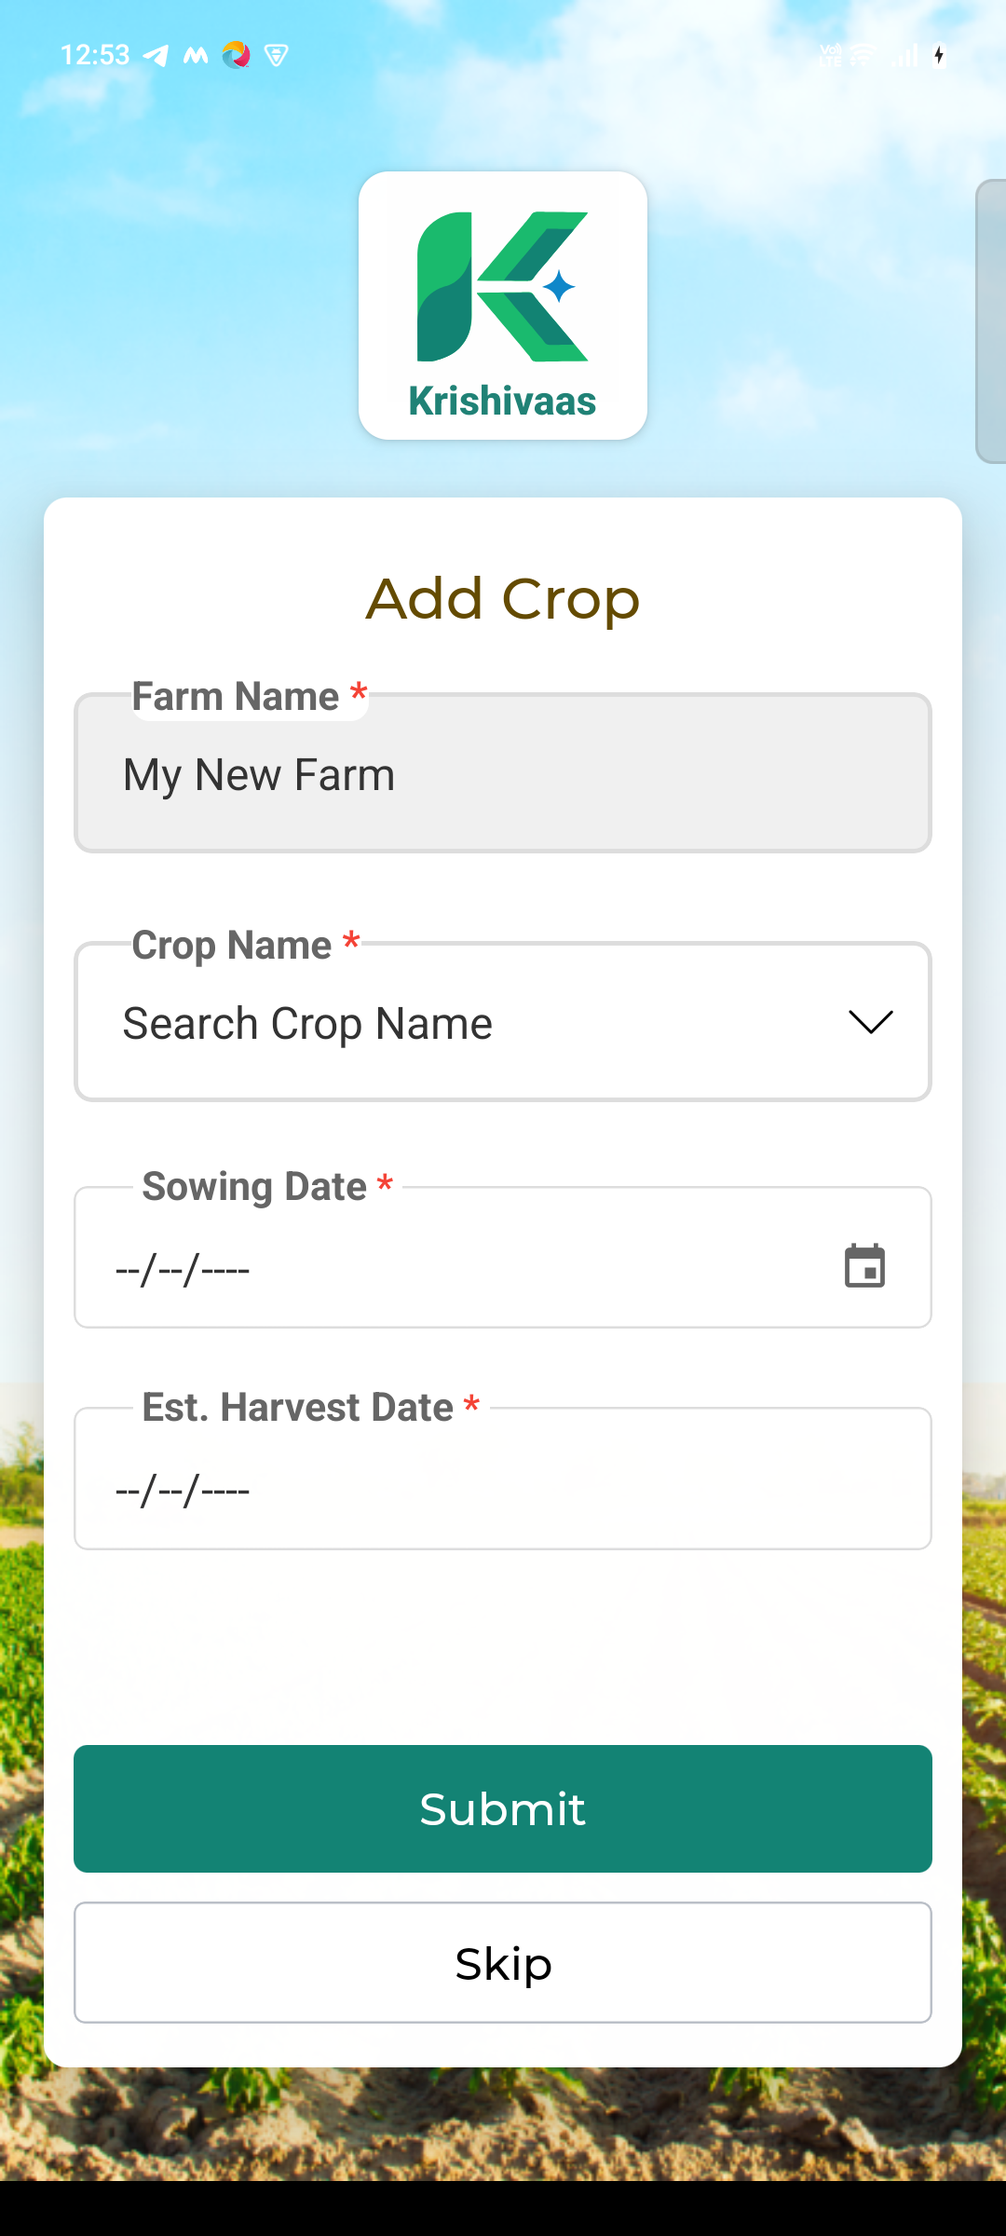
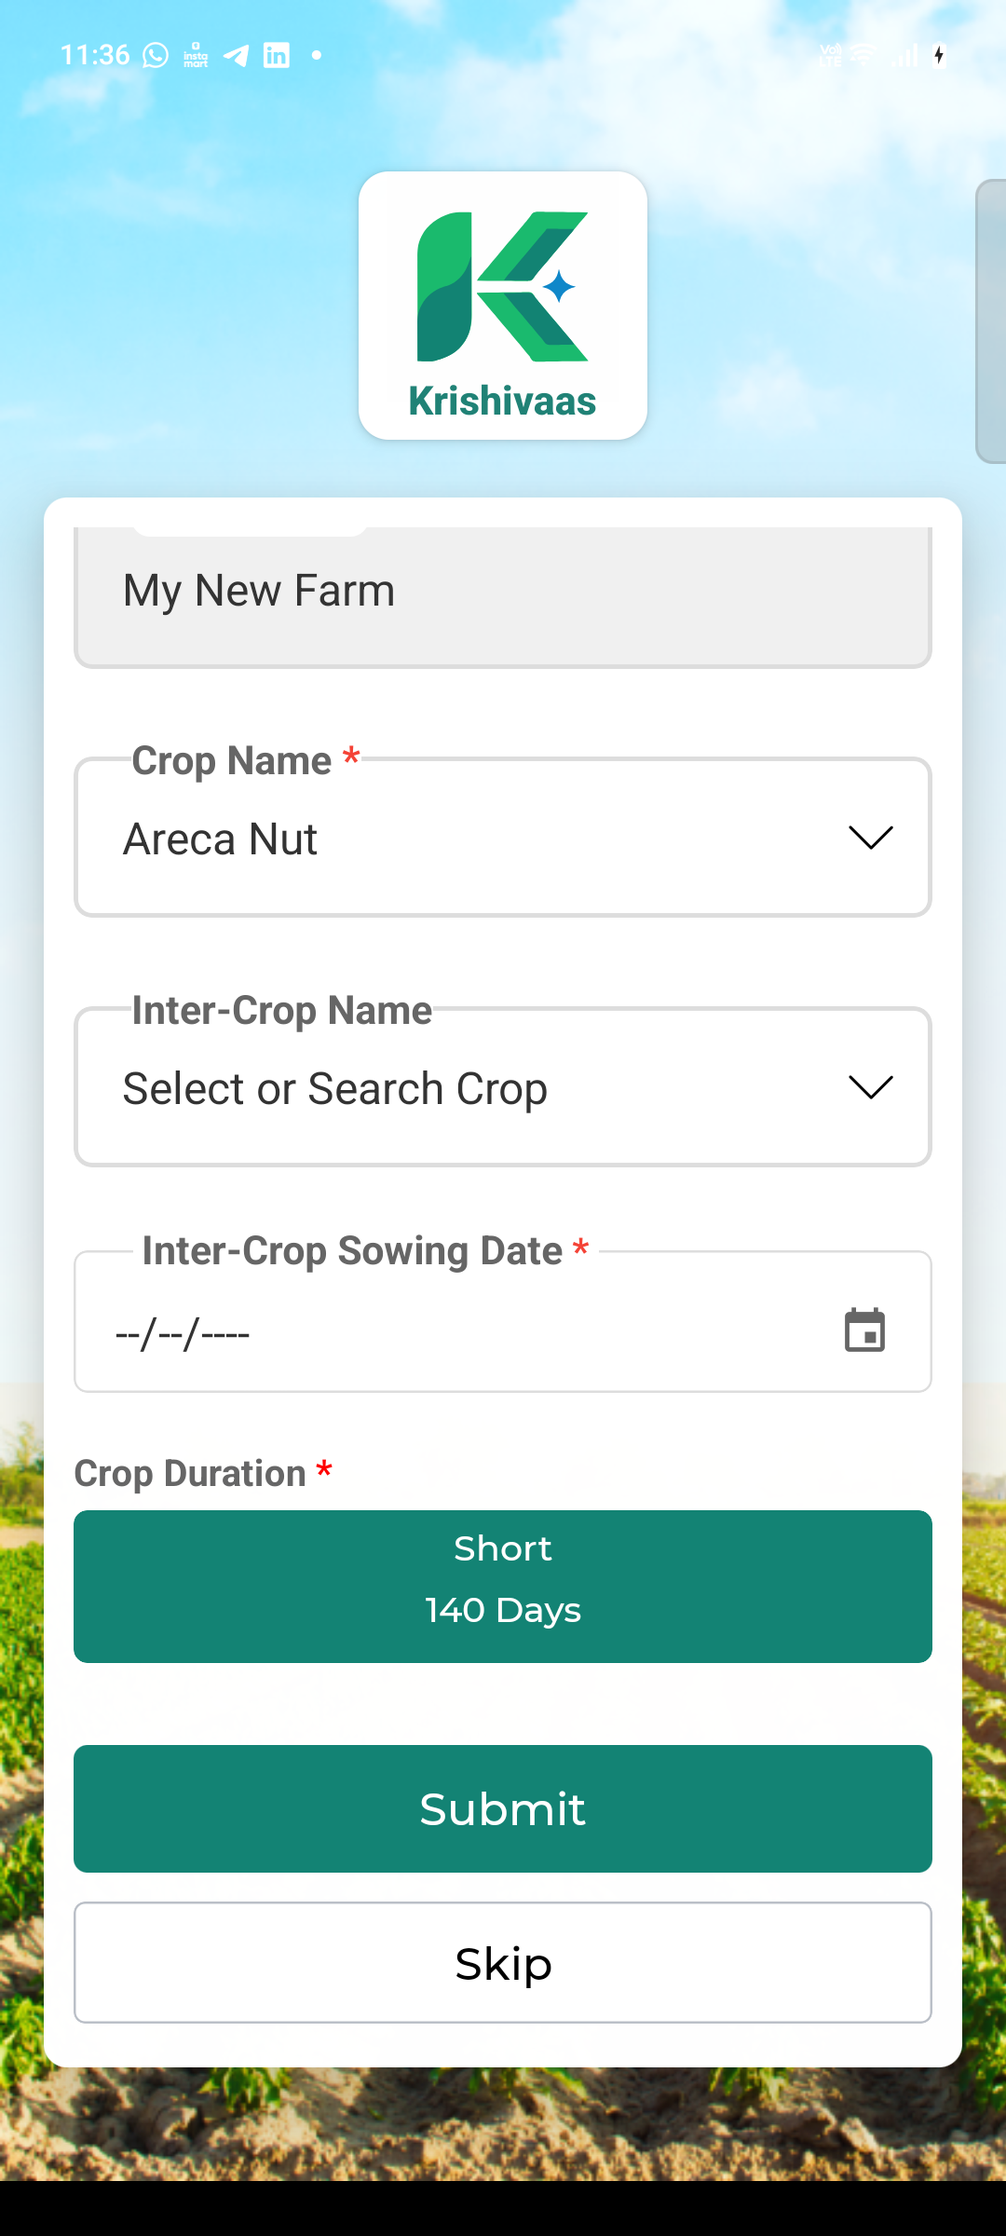
crop12

diff --git a/tests/test_cases/regular_client_test_cases/onboarding_pytest.py b/tests/test_cases/regular_client_test_cases/onboarding_pytest.py
@@ -3,16 +3,11 @@ import allure
 import pytest
 import json
 import os
-from selenium.webdriver.common.actions.action_builder import ActionBuilder
-from selenium.webdriver.common.actions.pointer_input import PointerInput
-from selenium.webdriver.common.actions import interaction
+from selenium.webdriver.common.by import By
 from selenium.webdriver.support.ui import WebDriverWait
 from selenium.webdriver.support import expected_conditions as EC
-from selenium.webdriver.common.by import By
 
 # --- IMPORT CUSTOM UTILITIES ---
-from tests.utils.touch_utils import tap_at_coordinates, perform_scroll
-from tests.utils.wait_utils import scroll_to_find
 from tests.utils.wait_utils import smart_click, smart_send_keys
 
 @allure.epic("Onboarding Flow")
@@ -22,24 +17,18 @@ class TestOnboarding:
     def _dismiss_coachmarks(self, driver):
         try:
             print("   -> Attempting to dismiss coachmarks...")
-            actions = ActionBuilder(driver)
-            p = PointerInput(interaction.POINTER_TOUCH, "finger")
-            actions.devices = [p]
-            actions.pointer_action.move_to_location(500, 1000)
-            actions.pointer_action.pointer_down()
-            actions.pointer_action.pause(0.1)
-            actions.pointer_action.pointer_up()
-            actions.perform()
+            # Replaced unstable ActionBuilder with native clickGesture
+            driver.execute_script("mobile: clickGesture", {"x": 500, "y": 1000})
             time.sleep(1)
-        except:
-            pass
+        except Exception as e:
+            print(f"Coachmark dismissal skipped: {e}")
 
     def perform_login(self, driver, locators):
         """
         Checks if user is on Dashboard. If not, performs login.
         """
         print("\n--- CHECKING LOGIN STATUS ---\n")
-       
+        
         # 1. Check if we are already on dashboard (look for Add button)
         try:
             WebDriverWait(driver, 5).until(
@@ -68,16 +57,16 @@ class TestOnboarding:
             for btn in perm_btns:
                 if btn:
                     smart_click(driver, "Permission Allow", btn, "Allow", timeout=3)
-       
+        
         print("   -> Login flow finished. Waiting for Dashboard...")
         time.sleep(5)
 
     @allure.story("Create Farmer, Farm, Crop, and Boundary")
     @allure.title("Verify user can add a new farmer and complete farm onboarding")
     def test_add_farmer_and_details(self, driver):
-       
+        
         print("\n--- STARTING ONBOARDING TEST ---\n")
-       
+        
         test_flow_steps = []
 
         # --- Load JSON ---
@@ -96,13 +85,13 @@ class TestOnboarding:
         login_x = data.get("login_screen", {})
         dash_x = data.get("dashboard_screen", {})
         farm_x = data.get("farmer_screen", {})
-       
-        # --- DEFINING LOCATORS ---
+        
+        # --- DEFINING LOCATORS (Properly mapped to element.json) ---
         locators = {
             # Login
             "next_button_language_login": login_x.get("next_button_language_login"),
             "allow_notifications_button": login_x.get("allow_notifications_button"),
-            "email_tab": login_x.get("email_tab", "//*[contains(@text, 'Email')]"),
+            "email_tab": login_x.get("tab_email_login"),
             "submit_login_button": login_x.get("submit_login_button"),
             "allow_picture_button": login_x.get("allow_picture_button"),
             "allow_location_button": login_x.get("allow_location_button"),
@@ -111,26 +100,29 @@ class TestOnboarding:
             # Dashboard
             "add_btn": dash_x.get("add_button_dashboard"),
             "add_farmer_opt": dash_x.get("add_new_farmer_option"),
-           
+            
             # Farmer
             "farmer_name": farm_x.get("farmer_name_input"),
             "farmer_mobile": farm_x.get("farmer_mobile_input"),
             "submit_farmer": farm_x.get("submit_farmer_button"),
-           
+            
             # Farm
             "draw_map_btn": farm_x.get("draw_on_map_button"),
             "farm_name": farm_x.get("farm_name_input"),
             "submit_farm": farm_x.get("submit_button"),
-           
+            
             # Crop
             "crop_input": farm_x.get("crop_name_input"),
-            "areca_item": "//*[contains(@text, 'Areca')]",
+            "areca_item": farm_x.get("areca_nut_item"),
             "sowing_date": farm_x.get("sowing_date_input"),
             "calendar_ok": farm_x.get("calendar_ok_btn"),
             "submit_crop": farm_x.get("submit_crop_btn"),
-            "inter_crop_input": "//*[contains(@text, 'Inter') or contains(@content-desc, 'Inter') and contains(@class, 'EditText')]",
-            "beetroot_item": "//*[contains(@text, 'Beetroot')]",
-            "inter_sowing_date": "//*[contains(@text, 'Sowing Date')]"
+            "inter_crop_input": farm_x.get("inter_crop_input"),
+            "inter_sowing_date": farm_x.get("inter_sowing_date_input"),
+            
+            # Crop Details
+            "duration_short": farm_x.get("short_duration_button"),
+            "sowing_type_direct": farm_x.get("direct_sowing_btn")
         }
 
         # --- ASSIGN TO SELF ---
@@ -141,11 +133,13 @@ class TestOnboarding:
         self.ok_button_xpath = locators["calendar_ok"]
         self.sowing_date_input_xpath = locators["sowing_date"]
         self.submit_crop_button_xpath = locators["submit_crop"]
+        self.duration_short_xpath = locators["duration_short"]
+        self.sowing_type_direct_xpath = locators["sowing_type_direct"]
 
         try:
             # PART 0: ENSURE LOGIN
             self.perform_login(driver, locators)
-           
+            
             # PART 1: ADD FARMER
             print("\n--- STARTING ADD FARMER FLOW ---\n")
             time.sleep(3)
@@ -153,24 +147,24 @@ class TestOnboarding:
 
             with allure.step("1. Click Add Button"):
                 if not smart_click(driver, "Add Button", locators["add_btn"], "Add"):
-                    print("   -> Smart Click failed. Forcing Coordinate Tap...")
-                    tap_at_coordinates(driver, 540, 2100)
+                    print("   -> Smart Click failed. Forcing coordinate native click...")
+                    driver.execute_script("mobile: clickGesture", {"x": 540, "y": 2100})
                     time.sleep(2)
 
             with allure.step("2. Click 'Add New Farmer'"):
                 if not smart_click(driver, "Add New Farmer Option", locators["add_farmer_opt"], "Add New Farmer"):
-                    print("   -> Smart Click failed. Forcing Coordinate Tap...")
-                    tap_at_coordinates(driver, 540, 1850)
+                    print("   -> Smart Click failed. Forcing coordinate native click...")
+                    driver.execute_script("mobile: clickGesture", {"x": 540, "y": 1850})
                     time.sleep(2)
 
             with allure.step("3. Enter Farmer Details"):
                 farmer_name = "Test Farmer " + str(time.time())[-4:]
                 smart_send_keys(driver, locators["farmer_name"], farmer_name, "Farmer Name")
                 smart_send_keys(driver, locators["farmer_mobile"], "1245125251", "Mobile")
-               
+                
                 if not smart_click(driver, "Submit Farmer", locators["submit_farmer"], "Submit"):
-                    tap_at_coordinates(driver, 540, 2200)
-           
+                    driver.execute_script("mobile: clickGesture", {"x": 540, "y": 2200})
+            
             test_flow_steps.append({"step": "Farmer Created", "status": "Success"})
             time.sleep(3)
 
@@ -178,7 +172,7 @@ class TestOnboarding:
             print("\n--- STARTING ADD FARM FLOW ---\n")
             with allure.step("4. Click Draw on Map"):
                 if not smart_click(driver, "Draw on Map", locators["draw_map_btn"], "Draw on map"):
-                    tap_at_coordinates(driver, 540, 1500)
+                    driver.execute_script("mobile: clickGesture", {"x": 540, "y": 1500})
                 time.sleep(5)
 
             with allure.step("5. Enter Farm Name"):
@@ -186,7 +180,7 @@ class TestOnboarding:
 
             with allure.step("6. Submit Farm"):
                 if not smart_click(driver, "Submit Farm", locators["submit_farm"], "Submit"):
-                      tap_at_coordinates(driver, 540, 2200)
+                      driver.execute_script("mobile: clickGesture", {"x": 540, "y": 2200})
             time.sleep(5)
 
             # PART 3: ADD CROP
@@ -194,117 +188,138 @@ class TestOnboarding:
             try: driver.hide_keyboard()
             except: pass
 
-            # ========================================================
-            # PART 3: ADD CROP
-            # ========================================================
-            print("\n--- STARTING ADD CROP FLOW ---\n")
-            try: driver.hide_keyboard()
-            except: pass
-
             # STEP 1: OPEN THE DROPDOWN
             with allure.step("5a. Open Crop Dropdown"):
                 print("Attempting to open dropdown...")
-                
-                # Try finding "Search" first, fallback to "Search" (which worked in your logs)
                 dropdown_opened = smart_click(
-                    driver,
-                    "open_crop_dropdown",
-                    None,
-                    "Search",
+                    driver, "open_crop_dropdown", None, "Search",
                     screenshot_path="screenshots/crop_label.png",
-                    force_ocr=True,
-                    ocr_attempts=1
+                    force_ocr=True, ocr_attempts=1
                 )
                 
                 if not dropdown_opened:
                     print("'Search' not found. Using fallback text 'Search'...")
                     dropdown_opened = smart_click(
-                        driver, 
-                        "open_crop_dropdown_fallback", 
-                        None, 
-                        "Search", 
-                        force_ocr=True
+                        driver, "open_crop_dropdown_fallback", None, "Search", force_ocr=True
                     )
 
             # STEP 2: SELECT 'Areca Nut' FROM LIST
             with allure.step("5b. Select 'Areca Nut' from dropdown"):
-                time.sleep(3)  # Wait for list to render
-                
+                time.sleep(3)
                 print("Attempting to select 'Areca Nut' using partial text 'Areca'...")
                 
-                # UPDATED: Searching for "Areca" only, to avoid word-splitting issues
                 if not smart_click(
-                    driver,
-                    "select_crop_item",          
-                    None,                        
-                    "Areca",                     # <--- CHANGED from "Areca Nut" to "Areca"
+                    driver, "select_crop_item", None, "Areca",
                     screenshot_path="screenshots/crop_dropdown_list.png",
-                    force_ocr=True,              
-                    ocr_attempts=3
+                    force_ocr=True, ocr_attempts=3
                 ):
-                    # Final Fallback: Try "Nut" if "Areca" somehow fails
                     print("'Areca' not found. Trying 'Nut'...")
                     if not smart_click(driver, "select_crop_item_retry", None, "Nut", force_ocr=True):
-                         pytest.fail("Could not select 'Areca Nut' via OCR (tried 'Areca' and 'Nut').")
+                         pytest.fail("Could not select 'Areca Nut' via OCR.")
                 
                 test_flow_steps.append({"step": "Select Crop Name", "status": "Success"})
+
+            with allure.step("5a. Open Inter Crop Dropdown"):
+                print("Attempting to open inter-crop dropdown...")
+                dropdown_opened = smart_click(
+                    driver, "Inter_open_crop_dropdown", None, "Search",
+                    screenshot_path="screenshots/crop_label.png",
+                    force_ocr=True, ocr_attempts=3
+                )
+                time.sleep(2)
            
-            with allure.step("6. Inter Crop"):
+            with allure.step("5b. Search and Select 'Bananas'"):
                 time.sleep(3)
-                if smart_click(driver, "Inter Crop Input", self.intercrop_name_xpath, "Inter", force_ocr=True):
-                    test_flow_steps.append({"step": "Click Inter Crop Name input", "status": "Success"})
-                   
-                    time.sleep(2)
-                    smart_send_keys(driver, locators["inter_crop_input"], "Beetroot", "Inter Search")
-                    time.sleep(2)
-                   
-                    if not smart_click(driver, "Select Beetroot", self.crop_name_item_xpath, "Beetroot", force_ocr=True):
-                          tap_at_coordinates(driver, 500, 500)
-                    test_flow_steps.append({"step": "Select Beetroot", "status": "Success"})
+                print("Attempting to type 'Bananas' into the search field...")
+                search_field_xpath = "//*[contains(@text, 'Search Inter-Crop') or contains(@hint, 'Search Inter-Crop') or contains(@content-desc, 'Search Inter-Crop')]"
+                
+                try:
+                    smart_send_keys(driver, search_field_xpath, "Bananas", "Inter Crop Search Field")
+                    test_flow_steps.append({"step": "Type Bananas in Search", "status": "Success"})
+                except Exception as e:
+                    print(f"Could not type into search box, but continuing since 'Bananas' is visible. Error: {e}")
+                
+                time.sleep(3)
+                
+                print("Attempting to select 'Bananas' using partial text 'Bananas'...")
+                if not smart_click(
+                    driver, "select_crop_item", None, "Bananas", 
+                    screenshot_path="screenshots/crop_dropdown_list.png",
+                    force_ocr=True, ocr_attempts=3
+                ):
+                    print("OCR failed to click Bananas. Using fallback coordinates.")
+                    driver.execute_script("mobile: clickGesture", {"x": 500, "y": 750}) 
+                    
+                test_flow_steps.append({"step": "Select Bananas", "status": "Success"})
 
-                    # Handle Sowing Date for Intercrop
-                    smart_click(driver, "Inter-Crop Sowing Date", self.intercrop_sowingdate_xpath, "Sowing Date")
-                    smart_click(driver, "Ok in calendar", self.ok_button_xpath, "OK")
-
-            with allure.step("10. Sowing Date input"):
-                if not smart_click(driver, "Sowing Date", self.sowing_date_input_xpath, "Sowing Date"):
-                    tap_at_coordinates(driver, 540, 1200)
-                test_flow_steps.append({"step": "Click Sowing Date input", "status": "Success"})
-
-            with allure.step("11. OK button on calendar"):
+                # Handle Sowing Date for Intercrop
+                smart_click(driver, "Inter-Crop Sowing Date", self.intercrop_sowingdate_xpath, "Sowing Date")
                 smart_click(driver, "Ok in calendar", self.ok_button_xpath, "OK")
-                test_flow_steps.append({"step": "Click OK button", "status": "Success"})
 
-            with allure.step("12. Submit Crop"):
-                if not smart_click(driver, "Submit Crop", self.submit_crop_button_xpath, "Submit"):
-                    tap_at_coordinates(driver, 540, 2200)
-                test_flow_steps.append({"step": "Click Submit Crop", "status": "Success"})
+            # with allure.step("7. Select Crop Duration (Short)"):
+            #     time.sleep(2)
+            #     if smart_click(driver, "Crop Duration Short", self.duration_short_xpath, "Short", force_ocr=True):
+            #         test_flow_steps.append({"step": "Select Short Crop Duration", "status": "Success"})
+            #     else:
+            #         print("Short duration button not found via OCR/Locator. Tapping coordinates.")
+            #         driver.execute_script("mobile: clickGesture", {"x": 540, "y": 1265})
+
+            # with allure.step("8. Select Sowing Type (Direct)"):
+            #     time.sleep(2)
+            #     try:
+            #         print("Attempting to click 'Direct Sowing'...")
+            #         if not smart_click(driver, "Sowing Type Direct", self.sowing_type_direct_xpath, "Direct", force_ocr=True):
+            #             print("OCR could not read white text on green button. Using fallback coordinates.")
+            #             driver.execute_script("mobile: clickGesture", {"x": 540, "y": 1550})
+                        
+            #         test_flow_steps.append({"step": "Select Direct Sowing Type", "status": "Success"})
+            #     except Exception as e:
+            #         print(f"Error selecting Direct Sowing type: {e}")
+
+            with allure.step("9. Sowing Date input"):
+                time.sleep(2)
+                try:
+                    # Added force_ocr=True to prevent DOM scroll session crashes
+                    if not smart_click(driver, "Sowing Date", self.sowing_date_input_xpath, "Sowing Date", force_ocr=True):
+                        print("Fallback: Tapping approximate coordinate for Sowing Date")
+                        driver.execute_script("mobile: clickGesture", {"x": 350, "y": 1690}) 
+                    
+                    test_flow_steps.append({"step": "Click Sowing Date input", "status": "Success"})
+
+                    time.sleep(1)
+                    smart_click(driver, "Ok in calendar", self.ok_button_xpath, "OK", force_ocr=True)
+                    test_flow_steps.append({"step": "Click OK for Sowing Date", "status": "Success"})
+                except Exception as e:
+                    print(f"Error during Sowing Date selection: {e}")
+
+            with allure.step("11. Submit Crop"):
+                time.sleep(2)
+                try:
+                    # Added force_ocr=True to prevent DOM scroll session crashes
+                    if not smart_click(driver, "Submit Crop", self.submit_crop_button_xpath, "Submit", force_ocr=True):
+                        driver.execute_script("mobile: clickGesture", {"x": 540, "y": 2200})
+                    test_flow_steps.append({"step": "Click Submit Crop", "status": "Success"})
+                except Exception as e:
+                    print(f"Error submitting crop: {e}")
 
             # PART 4: BOUNDARY
             print("\n--- STARTING BOUNDARY DRAWING ---\n")
             with allure.step("14. Click Add Boundary"):
-                if not smart_click(driver, "Add Boundary", locators["draw_map_btn"], "Add Boundary"):
-                      tap_at_coordinates(driver, 540, 1500)
+                if not smart_click(driver, "Add Boundary", locators["draw_map_btn"], "Add Boundary", force_ocr=True):
+                      driver.execute_script("mobile: clickGesture", {"x": 540, "y": 1500})
 
             with allure.step("15. Draw Polygon on Map"):
                 time.sleep(5)
+                # Replaced ActionBuilder loop with stable native clicks
                 polygon_coords = [(400, 800), (600, 1000), (800, 900), (700, 700), (400, 800)]
-                actions = ActionBuilder(driver)
-                p = PointerInput(interaction.POINTER_TOUCH, "finger")
-                actions.devices = [p]
-               
-                for idx, (x, y) in enumerate(polygon_coords):
-                    if idx == 0:
-                        actions.pointer_action.move_to_location(x, y).pointer_down().pause(0.2).pointer_up()
-                    else:
-                        actions.pointer_action.move_to_location(x, y).pointer_down().pause(0.2).pointer_up()
-                actions.perform()
-                time.sleep(2)
+                for x, y in polygon_coords:
+                    driver.execute_script("mobile: clickGesture", {"x": x, "y": y})
+                    time.sleep(0.5)
                 test_flow_steps.append({"step": "Boundary Drawn", "status": "Success"})
 
             with allure.step("16. Save Boundary"):
                 if not smart_click(driver, "Save Boundary", locators["submit_farm"], "Save"):
-                      tap_at_coordinates(driver, 540, 2200)
+                      driver.execute_script("mobile: clickGesture", {"x": 540, "y": 2200})
 
             allure.attach("Onboarding Complete", name="Final_Result", attachment_type=allure.attachment_type.TEXT)
             test_flow_steps.append({"step": "Farm & Boundary Added", "status": "Success"})
